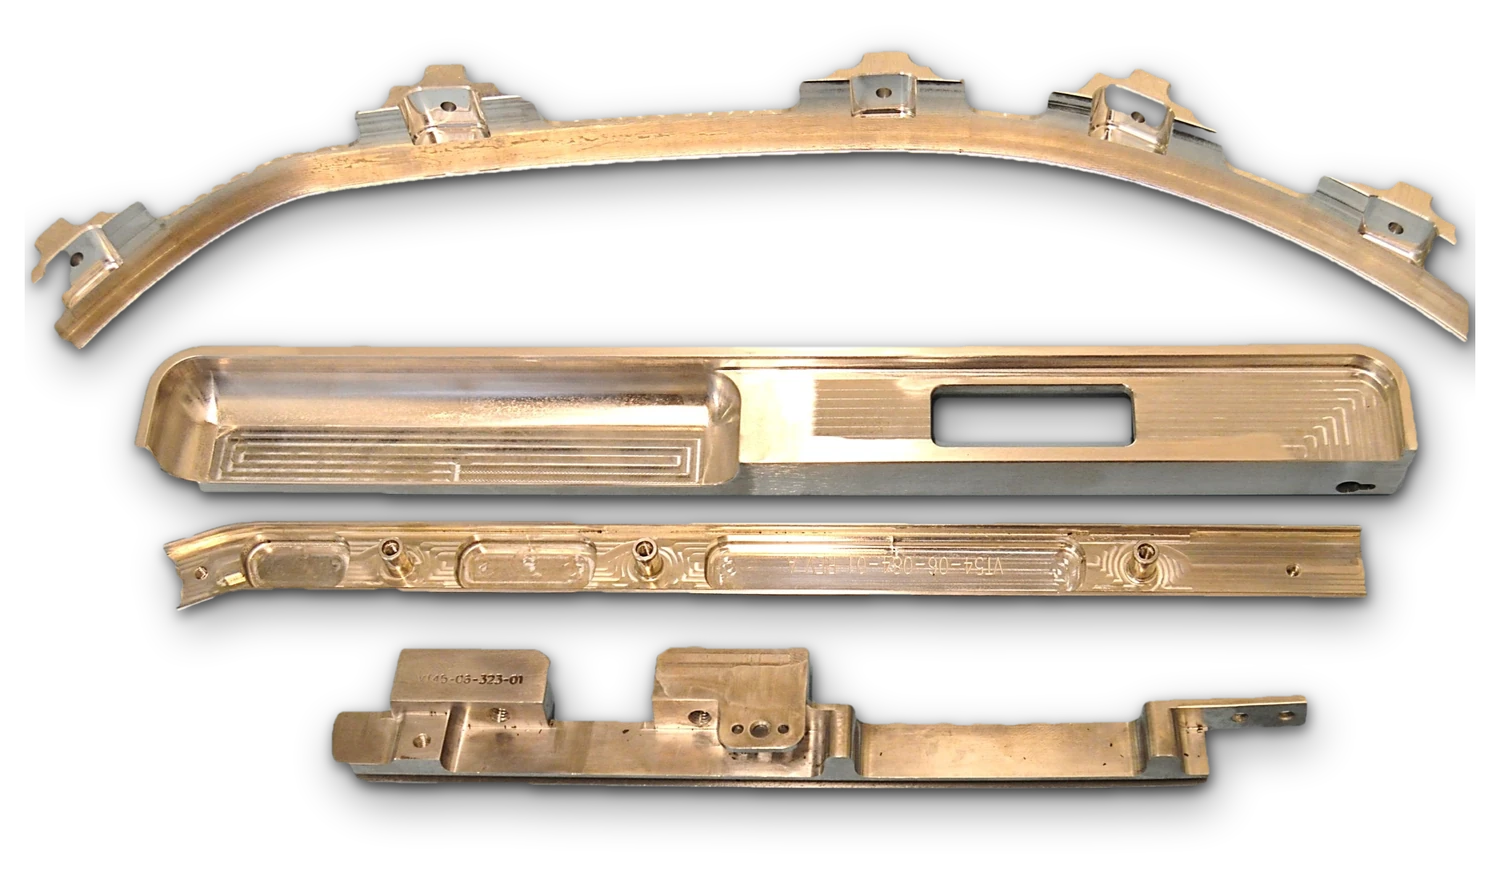
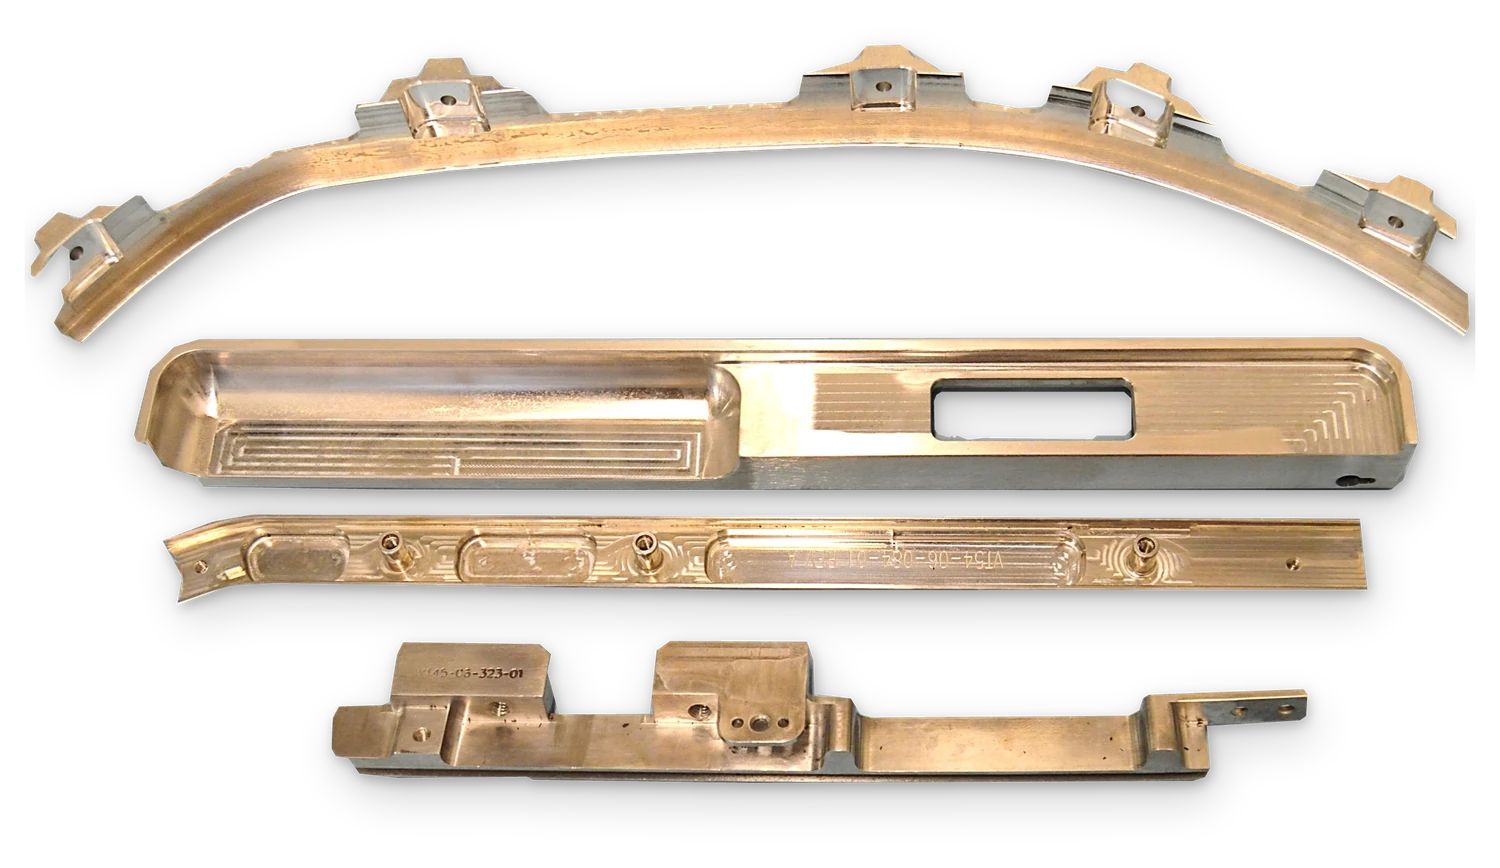
tt-precision: hero matte redone (defringed, polygon-traced outlines, faint shadow), group nudged right
Claude-Session: https://claude.ai/code/session_014388NDCZWMFCmqvfRGJyuJ

Changed region(s): [[0.092, 0.3733, 0.9507, 0.9332], [0.0, 0.0311, 1.0, 0.4355], [0.092, 0.4044, 0.1227, 0.4355]]

diff --git a/_kit/src/tt-precision.src.html b/_kit/src/tt-precision.src.html
@@ -1277,6 +1277,7 @@ body{background:var(--ink)}
 .hero .btn.solid:hover,.dark .btn.solid:hover,.dark2 .btn.solid:hover{color:#110f2e}
 .btn.solid,.light .btn.solid{background:#24215c;border-color:#24215c;color:#fff}
 .hero-ph{width:calc(56% - var(--side) - 24px)}
+@media (min-width:861px){.hero-ph{width:calc(52% - var(--side));right:calc(var(--side) - 14px)}}
 .hero-ph img{max-width:min(100%,760px);max-height:min(520px,calc(100vh - 260px))}
 .d1,.d2,.d3,.mani .txt,.stat .v,.step h2,.cta .big,.pfr h3,.nws h3,.cap h3,.mh-name{font-weight:400}
 .mani .txt,.step h2{font-weight:300}
@@ -1429,7 +1430,7 @@ function plant(){return '<ul class="pfr pipe np">'+PLANT.map(function(c){
 function vHome(){
   return ''+
   '<section class="hero" id="hero" data-field data-theme="dark">'+
-   '<div class="hero-ph"><figure data-r><img src="hero-cut.webp" width="1500" height="879" alt="Four precision machined aerospace parts made by T&amp;T Precision: a curved frame with bracket pads, a pocketed plate with a through window, a long rail with studs, and a stepped bar" decoding="async" fetchpriority="high"></figure></div>'+
+   '<div class="hero-ph"><figure data-r><img src="hero-cut.webp" width="1500" height="868" alt="Four precision machined aerospace parts made by T&amp;T Precision: a curved frame with bracket pads, a pocketed plate with a through window, a long rail with studs, and a stepped bar" decoding="async" fetchpriority="high"></figure></div>'+
    '<span class="lab eyebrow" data-r>Design and precision engineering<span class="nomob"> · Cork, Ireland · since 1996</span></span>'+
    '<h1 class="d1 hero-h" id="pageTitle" tabindex="-1"><span class="l"><span class="nw">Precision parts,</span></span> <span class="l"><span class="nw">designed and made.</span></span></h1>'+
    '<div class="hero-foot"><p class="s" data-r>Precision machined components to customer specification, from one-off prototypes to batch production, for aerospace, medical device, food and drug and plastics manufacturers.</p>'+

diff --git a/tt-precision/index.html b/tt-precision/index.html
@@ -1282,6 +1282,7 @@ body{background:var(--ink)}
 .hero .btn.solid:hover,.dark .btn.solid:hover,.dark2 .btn.solid:hover{color:#110f2e}
 .btn.solid,.light .btn.solid{background:#24215c;border-color:#24215c;color:#fff}
 .hero-ph{width:calc(56% - var(--side) - 24px)}
+@media (min-width:861px){.hero-ph{width:calc(52% - var(--side));right:calc(var(--side) - 14px)}}
 .hero-ph img{max-width:min(100%,760px);max-height:min(520px,calc(100vh - 260px))}
 .d1,.d2,.d3,.mani .txt,.stat .v,.step h2,.cta .big,.pfr h3,.nws h3,.cap h3,.mh-name{font-weight:400}
 .mani .txt,.step h2{font-weight:300}
@@ -1994,7 +1995,7 @@ function plant(){return '<ul class="pfr pipe np">'+PLANT.map(function(c){
 function vHome(){
   return ''+
   '<section class="hero" id="hero" data-field data-theme="dark">'+
-   '<div class="hero-ph"><figure data-r><img src="hero-cut.webp" width="1500" height="879" alt="Four precision machined aerospace parts made by T&amp;T Precision: a curved frame with bracket pads, a pocketed plate with a through window, a long rail with studs, and a stepped bar" decoding="async" fetchpriority="high"></figure></div>'+
+   '<div class="hero-ph"><figure data-r><img src="hero-cut.webp" width="1500" height="868" alt="Four precision machined aerospace parts made by T&amp;T Precision: a curved frame with bracket pads, a pocketed plate with a through window, a long rail with studs, and a stepped bar" decoding="async" fetchpriority="high"></figure></div>'+
    '<span class="lab eyebrow" data-r>Design and precision engineering<span class="nomob"> · Cork, Ireland · since 1996</span></span>'+
    '<h1 class="d1 hero-h" id="pageTitle" tabindex="-1"><span class="l"><span class="nw">Precision parts,</span></span> <span class="l"><span class="nw">designed and made.</span></span></h1>'+
    '<div class="hero-foot"><p class="s" data-r>Precision machined components to customer specification, from one-off prototypes to batch production, for aerospace, medical device, food and drug and plastics manufacturers.</p>'+

diff --git a/_kit/home/tt-precision/views.js b/_kit/home/tt-precision/views.js
@@ -25,7 +25,7 @@ function plant(){return '<ul class="pfr pipe np">'+PLANT.map(function(c){
 function vHome(){
   return ''+
   '<section class="hero" id="hero" data-field data-theme="dark">'+
-   '<div class="hero-ph"><figure data-r><img src="hero-cut.webp" width="1500" height="879" alt="Four precision machined aerospace parts made by T&amp;T Precision: a curved frame with bracket pads, a pocketed plate with a through window, a long rail with studs, and a stepped bar" decoding="async" fetchpriority="high"></figure></div>'+
+   '<div class="hero-ph"><figure data-r><img src="hero-cut.webp" width="1500" height="868" alt="Four precision machined aerospace parts made by T&amp;T Precision: a curved frame with bracket pads, a pocketed plate with a through window, a long rail with studs, and a stepped bar" decoding="async" fetchpriority="high"></figure></div>'+
    '<span class="lab eyebrow" data-r>Design and precision engineering<span class="nomob"> · Cork, Ireland · since 1996</span></span>'+
    '<h1 class="d1 hero-h" id="pageTitle" tabindex="-1"><span class="l"><span class="nw">Precision parts,</span></span> <span class="l"><span class="nw">designed and made.</span></span></h1>'+
    '<div class="hero-foot"><p class="s" data-r>Precision machined components to customer specification, from one-off prototypes to batch production, for aerospace, medical device, food and drug and plastics manufacturers.</p>'+

diff --git a/_kit/home/tt-precision/extra.css b/_kit/home/tt-precision/extra.css
@@ -642,6 +642,7 @@ body{background:var(--ink)}
 .hero .btn.solid:hover,.dark .btn.solid:hover,.dark2 .btn.solid:hover{color:#110f2e}
 .btn.solid,.light .btn.solid{background:#24215c;border-color:#24215c;color:#fff}
 .hero-ph{width:calc(56% - var(--side) - 24px)}
+@media (min-width:861px){.hero-ph{width:calc(52% - var(--side));right:calc(var(--side) - 14px)}}
 .hero-ph img{max-width:min(100%,760px);max-height:min(520px,calc(100vh - 260px))}
 .d1,.d2,.d3,.mani .txt,.stat .v,.step h2,.cta .big,.pfr h3,.nws h3,.cap h3,.mh-name{font-weight:400}
 .mani .txt,.step h2{font-weight:300}

diff --git a/_kit/home/tt-precision/hero_cut.py b/_kit/home/tt-precision/hero_cut.py
@@ -2,7 +2,8 @@
 # (twohigprecision.com, wp-content/uploads/2025/08/part3.jpg, 2351x1763). OpenCV GrabCut at 1400px wide, seeded with a rectangle
 # and the image border as sure background and the strongly bluish-grey ground as probable background; every part kept
 # (components over 0.4% of the frame), holes that show the ground (the pocket window) restored as background.
-# A soft synthetic contact shadow. Usage: python3 hero_cut.py out.webp [preview.jpg]
+# Edge band defringed against the ground colour, each outline traced as a simplified polygon
+# (approxPolyDP, 4.5px) and rendered 4x supersampled. A faint synthetic contact shadow. Usage: python3 hero_cut.py out.webp [preview.jpg]
 import sys, numpy as np, cv2
 from PIL import Image, ImageFilter
 from scipy import ndimage as nd
@@ -56,11 +57,27 @@ o_full=cv2.resize(obj.astype(np.uint8)*255,(FW,FH),interpolation=cv2.INTER_LINEA
 o_full=nd.gaussian_filter(o_full.astype(float),2.0)
 obj=o_full>127
 H,W=FH,FW; A=cv2.cvtColor(full,cv2.COLOR_BGR2RGB).astype(float)
-a=Image.fromarray((obj*255).astype(np.uint8)).filter(ImageFilter.MinFilter(3)).filter(ImageFilter.GaussianBlur(1.1)); a=np.asarray(a).astype(float)/255
+# defringe: in an 8px band inside the edge, drop pixels that are the ground's colour (bluish grey, close to the row ground)
+side=np.concatenate([A[:,:int(W*.03)],A[:,-int(W*.03):]],1); rowg=np.median(side,1)
+dg=np.sqrt(((A-rowg[:,None,:])**2).sum(2)); band=obj&~nd.binary_erosion(obj,iterations=8)
+obj=obj&~(band&(dg<34)&(A[...,2]>=A[...,0]-4))
+obj=nd.binary_opening(obj,iterations=3)
+# outlines: each part traced as a simplified polygon (straight edges straight, lumps on the curves removed), holes kept
+# (the window), and rendered 4x supersampled for a clean anti-aliased edge
+cs,hier=cv2.findContours(obj.astype(np.uint8),cv2.RETR_CCOMP,cv2.CHAIN_APPROX_NONE)
+SS=4; big=np.zeros((H*SS,W*SS),np.uint8)
+for k,c in enumerate(cs):
+  ar=cv2.contourArea(c)
+  if ar<400: continue
+  hole=hier[0][k][3]>=0
+  ap=cv2.approxPolyDP(c,4.5 if not hole else 2.5,True)
+  cv2.fillPoly(big,[(ap.astype(np.int32)*SS+SS//2)],0 if hole else 255,lineType=cv2.LINE_8)
+a=np.asarray(Image.fromarray(big).resize((W,H),Image.BOX)).astype(float)/255
+obj=a>0.5
 fp=Image.fromarray((obj*255).astype(np.uint8))
 sh1=np.asarray(fp.transform(fp.size,Image.AFFINE,(1,0,-3,0,1,-8)).filter(ImageFilter.GaussianBlur(10))).astype(float)/255
 sh2=np.asarray(fp.transform(fp.size,Image.AFFINE,(1,0,-10,0,1,-30)).filter(ImageFilter.GaussianBlur(34))).astype(float)/255
-sh=np.clip(0.45*sh1+0.4*sh2,0,0.75)
+sh=np.clip(0.22*sh1+0.18*sh2,0,0.35)
 al=a+sh*(1-a); col=np.where(al[...,None]>0,(A*a[...,None])/np.maximum(al[...,None],1e-6),0)
 o=Image.fromarray(np.dstack([np.clip(col,0,255),al*255]).astype(np.uint8),'RGBA'); o=o.crop(o.getbbox()); pad=40
 o2=Image.new('RGBA',(o.width+2*pad,o.height+2*pad),(0,0,0,0)); o2.paste(o,(pad,pad))
